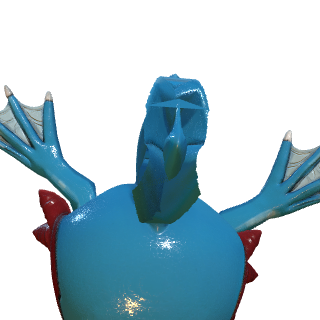
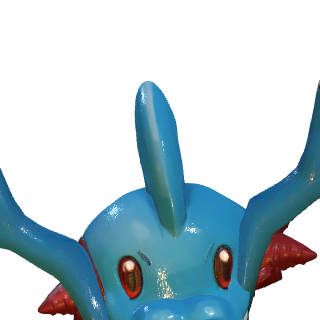
fix(models): Dorowani no longer faces away (feet cue read -Z; his mesh faces +Z)
Card showed his back; with the cue's -Z applied his face was still at 180
deg in the four-angle probe. Recorded +Z: card shows his face, and a real
fight vs Pantera has him facing his opponent (proof still in
docs/proof/2026-11-06/cards-facing/).

Claude-Session: https://claude.ai/code/session_01CLThWtX97Fi7zFw5wnvydL

diff --git a/game/assets/portraits/broken-originals-20261106/README.md b/game/assets/portraits/broken-originals-20261106/README.md
@@ -22,7 +22,7 @@ cards that were broken at that moment, byte-for-byte as they shipped, kept here 
 | rave | huge white hood geometry | textures are bucket-served (white on a local tree) + rig (audit: CONE FACE) |
 | chatur | NOT broken: corrected the same day. Dark skin and white hair are her fidelity rebuild from her own blend (#1572); owner 2026-11-06: "chart got fixed". Kept here only because it was swept up in the first pass. | — |
 
-Suspect on the same pass (kept for comparison): dxmmii-patchwork and bruno (floating hands), dorowani, michiko,
+Suspect on the same pass (kept for comparison): dxmmii-patchwork (a forearm and hand float detached), bruno, dorowani (back view; FIXED same day by his facing record, see docs/proof/2026-11-06/cards-facing/), michiko (speckle holes in hair and arm),
 cainelias, tobi.
 
 The seven fighters with no model at all (rin, byou, tou, sha, kai, retsu, gyou) show the shared MODEL PENDING

diff --git a/docs/proof/2026-11-06/cards-facing/README.md b/docs/proof/2026-11-06/cards-facing/README.md
@@ -11,3 +11,9 @@ card camera (`facing-probe-rest-vs-stance.png`). So these two model files face -
   that picture".
 
 The broken originals stay in `game/assets/portraits/broken-originals-20261106/`.
+
+## Dorowani (same day)
+
+His card showed his back too. Here the game had already turned him (the feet cue read `-Z`, `assets.facing = -1` read
+back in the page), and his face was still at 180 deg in the probe, so his mesh faces `+Z`: `dorowani` is now recorded
+`+Z`. `dorowani-card-and-fight.png`: old card / new card (his face) and a real fight vs Pantera, facing his opponent.
